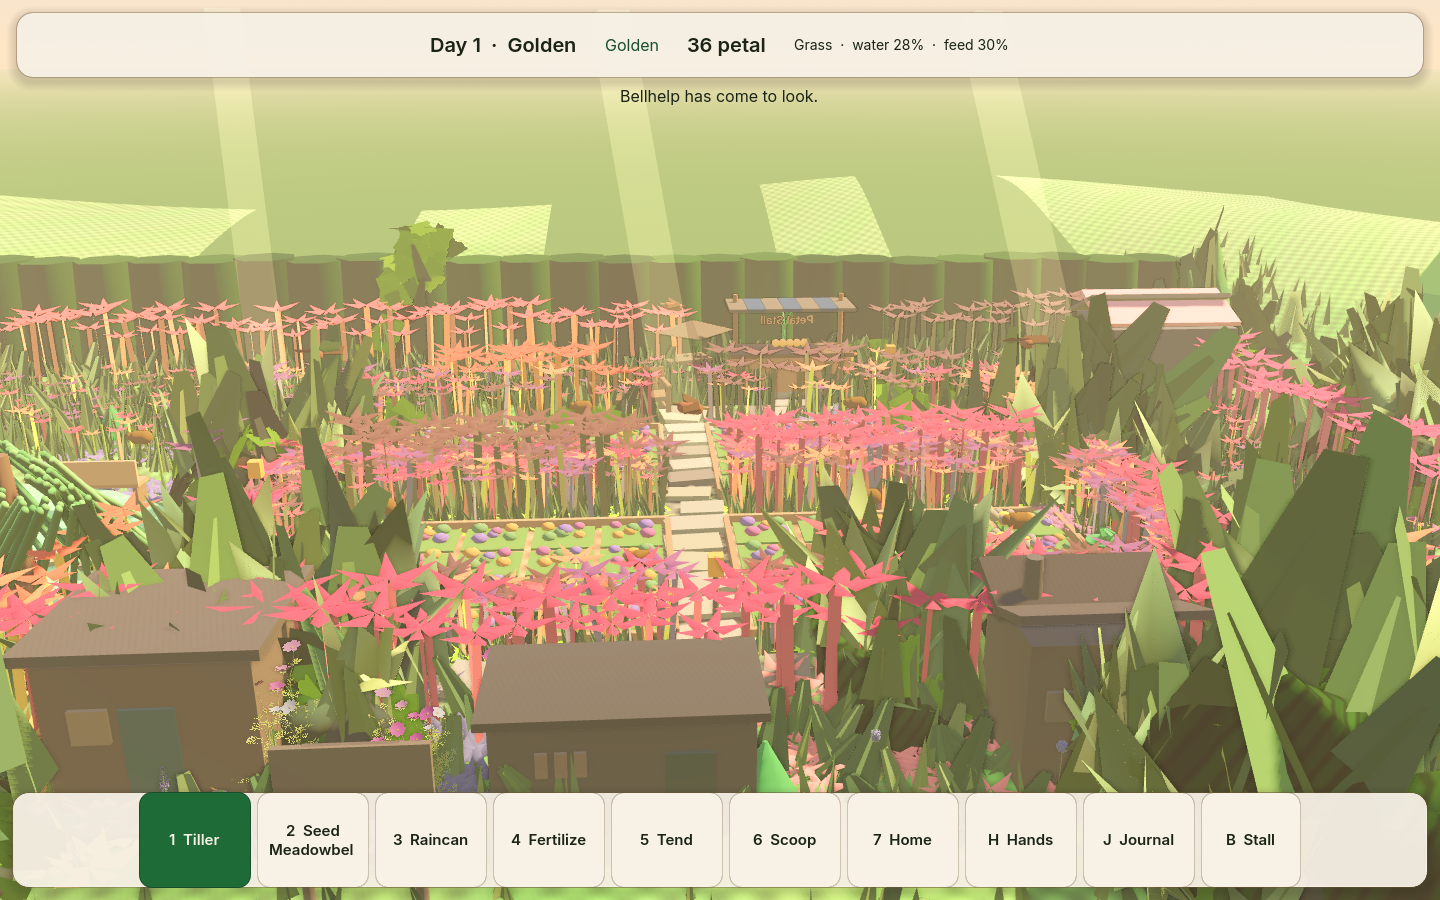
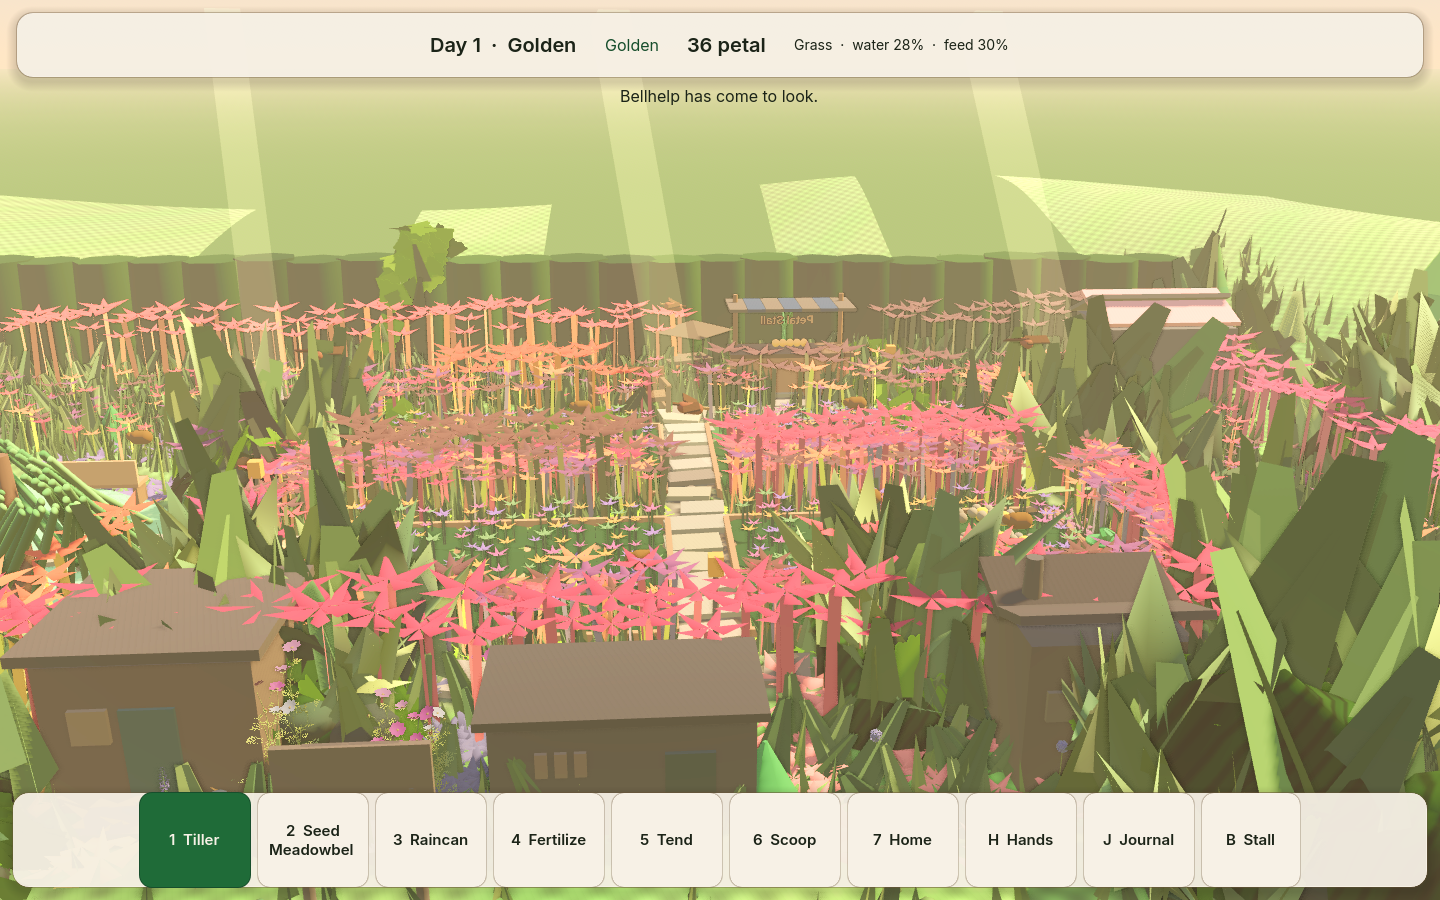
Record the leaf cover on the empty beds.
Nine leaf discs and eight short flowers sit on each untilled cell. The upper band is 1.60% light-green and the hill mean is (212.1, 223.8, 146.5).

diff --git a/docs/PETALWILD_MASTER_STATE.md b/docs/PETALWILD_MASTER_STATE.md
@@ -31,14 +31,14 @@ This machine has no Vulkan surface. Godot falls back to OpenGL 3 / llvmpipe. Aud
 - Large text resizes the garden HUD without leaving the scene.
 - Sim LOD counters. Trust levels named 0–5. Only 0 and 1 can happen, and both stay in the game.
 - Off-screen jellies hide. A resident walks to the nearest placed home kit. A visitor keeps the flower. Back in frame, the body shows again.
-- By day Lumen keeps the stall, Bram walks the plots, and Nessa watches the gate. After dusk they walk home. The directory says which. Ask Bram and he walks the driest tilled bed and waters it. The potting shed is open. Its demand is 1 while he is here. The hedge tea house stands on the south lawn. Its demand is 1 while Nessa is here, and her day round stops at the porch. The research hut stands on the south lawn, west of the tea house. She walks there to file parish notes, nothing leaves the garden, and its demand is 1 once those notes are filed. The media foundry stands between them. After the notes, she can leave a three-episode draft there. Keeping it spends nothing and sends nothing, and foundry demand is 1 once the draft is in the book. The town hall is a board by the south gate. It posts the peach tray and that draft, and its demand is how many are posted. The town beyond the hedge is not simulated. When a creature arrives and Nessa is here, she walks to them and writes the name in the parish book. The journal hides a species name until that creature is sighted. A species that has already visited comes back as a repeat, and the journal says they are back again. Scooping the bank widens the pond, and the new shore sits on the ground. Bulrush wades in once that water and three mature reeds are there. Once Bulrush is a visitor and the beds are wet, Reedic follows. Fertility is the tilled beds, so feeding them counts. Two mature brambles bring Berrypatch, and a third plus those fed beds bring Grapling. A resident Bellhelp brings Cirlark. Dusknip follows a visiting Bellhelp and, once it settles, leaves night-loam, which unwraps the nightlantern seed. A ripe peach and a nightlantern in the evening rain bring Pegapear. Night-loam, two mosspears, and those fed beds bring Gushorn. A planted meadowbell is three bells on a leaf pad, and every crop sits in a ring of eight leaves. An empty untilled bed carries six dark blooms. Tilling or planting that bed clears them.
+- By day Lumen keeps the stall, Bram walks the plots, and Nessa watches the gate. After dusk they walk home. The directory says which. Ask Bram and he walks the driest tilled bed and waters it. The potting shed is open. Its demand is 1 while he is here. The hedge tea house stands on the south lawn. Its demand is 1 while Nessa is here, and her day round stops at the porch. The research hut stands on the south lawn, west of the tea house. She walks there to file parish notes, nothing leaves the garden, and its demand is 1 once those notes are filed. The media foundry stands between them. After the notes, she can leave a three-episode draft there. Keeping it spends nothing and sends nothing, and foundry demand is 1 once the draft is in the book. The town hall is a board by the south gate. It posts the peach tray and that draft, and its demand is how many are posted. The town beyond the hedge is not simulated. When a creature arrives and Nessa is here, she walks to them and writes the name in the parish book. The journal hides a species name until that creature is sighted. A species that has already visited comes back as a repeat, and the journal says they are back again. Scooping the bank widens the pond, and the new shore sits on the ground. Bulrush wades in once that water and three mature reeds are there. Once Bulrush is a visitor and the beds are wet, Reedic follows. Fertility is the tilled beds, so feeding them counts. Two mature brambles bring Berrypatch, and a third plus those fed beds bring Grapling. A resident Bellhelp brings Cirlark. Dusknip follows a visiting Bellhelp and, once it settles, leaves night-loam, which unwraps the nightlantern seed. A ripe peach and a nightlantern in the evening rain bring Pegapear. Night-loam, two mosspears, and those fed beds bring Gushorn. A planted meadowbell is three bells on a leaf pad, and every crop sits in a ring of eight leaves. An empty untilled bed carries nine dark leaf discs and eight short flowers. Tilling or planting that bed clears them.
 
 ## Broken or not built
 
 - The garden does not yet look like the concept plates. See the gap list below.
 - Bellhelp’s five sphere lobes are gone. Five narrow petals run from the tips down to a small pad, with a dark five-petal well, a gold seed, a wider flared whorl, a lower rim, five gap tips past the lobes, a darker band, and a wide short rank inside the tips. The wide skirt of spheres is gone.
 - Lumen’s stalk is one fluted taper, cream at the base and green at the crown. The raised hand holds a seed tray. Each hand is a palm with three fingers and a thumb.
-- Crest leaf cards are 0.4 scale, and the far hedge keeps one 2.5 m tuft in four. A dark shrub row stands just behind that wall, taller at the east end. Light-green in the upper opening band fell from 53% to 24%, and in the lower band from 36% to 13%. The hill did not move. The stall still shows through the middle. The bright blue in that opening was the awning cloth. That stripe is darker now, about (171, 171, 173), and the sky-blue detector on the overview is 0. The shrub row behind the wall was the pale green in the upper band. That check now covers 1.2%, down from 3.5%. The crest leaf cards and the far trees were the side-opening pale pixels. The north backdrop trees are shorter. Paths are dark dirt with darker flagstones. Blooms are rose. StandardMaterial specular is off. The bench and planter are darkened, bright plant-atlas texels are capped, and the lantern glass is amber. The pink disk by the south-west rail, the untilled grass-plot tops, the meadowbell petals, the mauve bed, the resident hands, the light flagstones, the path dirt, and the loose stones are darkened. Overview pixels at pure white are 0. Empty untilled beds carry six dark blooms, and the green lids still show between them. On this shot the upper-band check is 1.54% (1155 pixels) and the hill mean is (212.0, 223.7, 146.5). Eight bees drift over the beds. Four birds cross the garden by day and perch at dusk and in the rain.
+- Crest leaf cards are 0.4 scale, and the far hedge keeps one 2.5 m tuft in four. A dark shrub row stands just behind that wall, taller at the east end. Light-green in the upper opening band fell from 53% to 24%, and in the lower band from 36% to 13%. The hill did not move. The stall still shows through the middle. The bright blue in that opening was the awning cloth. That stripe is darker now, about (171, 171, 173), and the sky-blue detector on the overview is 0. The shrub row behind the wall was the pale green in the upper band. That check now covers 1.2%, down from 3.5%. The crest leaf cards and the far trees were the side-opening pale pixels. The north backdrop trees are shorter. Paths are dark dirt with darker flagstones. Blooms are rose. StandardMaterial specular is off. The bench and planter are darkened, bright plant-atlas texels are capped, and the lantern glass is amber. The pink disk by the south-west rail, the untilled grass-plot tops, the meadowbell petals, the mauve bed, the resident hands, the light flagstones, the path dirt, and the loose stones are darkened. Overview pixels at pure white are 0. Empty untilled beds carry nine dark leaf discs and eight short flowers, and the plots still meet as separate rectangles. On this shot the upper-band check is 1.60% (1197 pixels) and the hill mean is (212.1, 223.8, 146.5). Eight bees drift over the beds. Four birds cross the garden by day and perch at dusk and in the rain.
 - City, venues, and the agent civilisation are a single parish record (`data/district.json`, Hedge Hollow, phase A).
 - On-screen jellies stay at district fidelity or nearer. The directory shows each resident's home and job. The parish page lists venues. Petal Stall, the potting shed, the hedge tea house, the research hut, the media foundry, and the town hall board are open. Grove Park is not built, and demand for it is not simulated. Petal Stall demand is the people present plus creature residents.
 - Trust cannot research, draft, or act outside the process.
@@ -64,14 +64,14 @@ Spent: 0. Remaining on the connected account: **367.46** (pro). Catalog check re
 
 Compared `docs/screenshots/wave1_overview.png`, `wave1_jelly.png`, and `wave1_lumen.png` with `docs/reference/petalwild_target_garden_01.png` and `petalwild_target_garden_02.png`.
 
-The north backdrop trees are shorter than the hedge. Crest leaf cards are 0.4 scale, and the far hedge keeps one 2.5 m tuft in four. A dark shrub row stands just behind that wall, taller at the east end. Light-green pixels fell from 53% to 24% in the upper opening band (screen y 265–320) and from 36% to 13% in the lower band (y 290–360). East-lip luminance (y 252–272) fell from 200 to 162. The hill (y 200–245) did not change. Bellhelp’s close-up is on open lawn: five narrow lobes, a dark five-petal well, a gold seed, a wider flared whorl, a lower rim, five gap tips past the lobes, a darker band, and a wide short rank inside the tips. The bench and planter use a dark multiply, bright plant-atlas texels are capped, and the lantern glass is amber. The pink disk by the south-west rail, the untilled grass-plot tops, the meadowbell petals, the mauve bed, the resident hands, the light flagstones, the path dirt, and the loose stones are darkened. Pure white on this overview is 0. The stall awning’s bright blue was cloth, now about (171, 171, 173), and the sky-blue detector is 0. The shrub row behind the wall no longer reads as pale green; that upper-band check is 1.2%. On the previous shot that check was 1.17% and the hill mean was (212.9, 224.4, 147.6). With the hedge tea house in the lower left, that shot was 1.30%. With the research hut in the lower middle, that shot was 1.17% (874 pixels). With the media foundry in the lower middle, that shot was 1.15% (862 pixels). With the town hall board in the south gate, that shot was 1.29% (968 pixels) and the hill mean was (212.0, 223.6, 146.4). Empty untilled beds now carry six dark blooms, and a tilled or planted bed clears them. On this shot the check is 1.54% (1155 pixels) and the hill mean is (212.0, 223.7, 146.5). The added light-green is the west edge of the hill under the swaying leaves. A planted meadowbell is three bells on a leaf pad, and every crop sits in a ring of eight leaves. Eight bees drift over the beds. Four birds cross the garden by day and perch at dusk and in the rain. Paths are flagstones on dark dirt. Lumen’s stalk is one fluted taper, and the raised hand holds the seed tray. `PETAL_SMOKE_OK`, `PETAL_RULES_OK`, and `PETAL_CAPTURE_OK` passed on this tree. Shots are the six `wave1_*.png` files.
+The north backdrop trees are shorter than the hedge. Crest leaf cards are 0.4 scale, and the far hedge keeps one 2.5 m tuft in four. A dark shrub row stands just behind that wall, taller at the east end. Light-green pixels fell from 53% to 24% in the upper opening band (screen y 265–320) and from 36% to 13% in the lower band (y 290–360). East-lip luminance (y 252–272) fell from 200 to 162. The hill (y 200–245) did not change. Bellhelp’s close-up is on open lawn: five narrow lobes, a dark five-petal well, a gold seed, a wider flared whorl, a lower rim, five gap tips past the lobes, a darker band, and a wide short rank inside the tips. The bench and planter use a dark multiply, bright plant-atlas texels are capped, and the lantern glass is amber. The pink disk by the south-west rail, the untilled grass-plot tops, the meadowbell petals, the mauve bed, the resident hands, the light flagstones, the path dirt, and the loose stones are darkened. Pure white on this overview is 0. The stall awning’s bright blue was cloth, now about (171, 171, 173), and the sky-blue detector is 0. The shrub row behind the wall no longer reads as pale green; that upper-band check is 1.2%. On the previous shot that check was 1.17% and the hill mean was (212.9, 224.4, 147.6). With the hedge tea house in the lower left, that shot was 1.30%. With the research hut in the lower middle, that shot was 1.17% (874 pixels). With the media foundry in the lower middle, that shot was 1.15% (862 pixels). With the town hall board in the south gate, that shot was 1.29% (968 pixels) and the hill mean was (212.0, 223.6, 146.4). On that shot the check was 1.54% (1155 pixels) and the hill mean was (212.0, 223.7, 146.5). Empty untilled beds now carry nine dark leaf discs and eight short flowers, and a tilled or planted bed clears them. On this shot the check is 1.60% (1197 pixels) and the hill mean is (212.1, 223.8, 146.5). The added light-green is the west edge of the hill under the swaying leaves. A planted meadowbell is three bells on a leaf pad, and every crop sits in a ring of eight leaves. Eight bees drift over the beds. Four birds cross the garden by day and perch at dusk and in the rain. Paths are flagstones on dark dirt. Lumen’s stalk is one fluted taper, and the raised hand holds the seed tray. `PETAL_SMOKE_OK`, `PETAL_RULES_OK`, and `PETAL_CAPTURE_OK` passed on this tree. Shots are the six `wave1_*.png` files.
 
 Three largest gaps still open, against `docs/reference/petalwild_target_garden_01.png` and `petalwild_target_garden_02.png`:
 
-1. **Hedge skyline.** The crest cards and the far trees are darker. On this shot 1.54% of the upper band is still light-green (1155 pixels), mostly the west edge of the hill. The hill mean is (212.0, 223.7, 146.5). The stall still shows through the middle. The south rooms, the gate board, and the bed blooms sit lower and do not cover that edge. PETAL-05.
+1. **Hedge skyline.** The crest cards and the far trees are darker. On this shot 1.60% of the upper band is still light-green (1197 pixels), mostly the west edge of the hill. The hill mean is (212.1, 223.8, 146.5). The stall still shows through the middle. The south rooms, the gate board, and the bed blooms sit lower and do not cover that edge. PETAL-05.
 2. **Bellhelp.** Ten tips, a short rank inside them, a darker band, and a wider skirt. The dark throat is still the center. PETAL-03.
-3. **Plot grid.** Each empty untilled cell has six dark blooms, and the rectangular green lid still shows between them. A tilled or planted cell clears the blooms. The plates are dense rows. Overview pixels at pure white are 0, and the brightest leftover is still the warm horizon at screen x 1034, y 178, (255, 255, 201). That is sky. PETAL-06.
+3. **Plot grid.** Leaf discs and short flowers cover each empty untilled cell, and a tilled or planted cell clears them. The plots still meet as separate rectangles. The plates are one continuous planting. Overview pixels at pure white are 0, and the brightest leftover is still the warm horizon at screen x 1034, y 178, (255, 255, 201). That is sky. PETAL-06.
 
 ## Next integration
 
-Keep this build playable. The next pass stays inside `scenes/main.tscn` (Hedge Hollow). The creature chain through Gushorn can happen in this garden. Grove Park is still not built. The hedge tea house stands on the south lawn. The research hut stands west of it, and the media foundry stands between them. The town hall is a board by the south gate. Meadowbells are a clump of three, and every crop sits in a ring of leaves. Empty untilled beds carry six dark blooms, and the rectangular lids still show between them. On this shot 1.54% of the upper band is still light green (1155 pixels), mostly the west edge of the hill, and the stall still shows through the middle. The hill mean is (212.0, 223.7, 146.5). The south rooms and the town hall board sit in the foreground. Bees sit on the flowers while it rains. Do not paint that hill edge, do not cut the hill, and do not raise the east shrubs. Do not fill Bellhelp’s dark throat. Do not open a side demo. The Kenney/Cara grove in `scripts/presentation/` is not the running scene.
+Keep this build playable. The next pass stays inside `scenes/main.tscn` (Hedge Hollow). The creature chain through Gushorn can happen in this garden. Grove Park is still not built. The hedge tea house stands on the south lawn. The research hut stands west of it, and the media foundry stands between them. The town hall is a board by the south gate. Meadowbells are a clump of three, and every crop sits in a ring of leaves. Empty untilled beds carry nine dark leaf discs and eight short flowers, and the plots still meet as separate rectangles. On this shot 1.60% of the upper band is still light green (1197 pixels), mostly the west edge of the hill, and the stall still shows through the middle. The hill mean is (212.1, 223.8, 146.5). The south rooms and the town hall board sit in the foreground. Bees sit on the flowers while it rains. Do not paint that hill edge, do not cut the hill, and do not raise the east shrubs. Do not fill Bellhelp’s dark throat. Do not open a side demo. The Kenney/Cara grove in `scripts/presentation/` is not the running scene.

diff --git a/docs/VISUAL_GAP.md b/docs/VISUAL_GAP.md
@@ -2,12 +2,12 @@
 
 Compared on 2026-09-22. The scene `tools/run.sh` launches is Hedge Hollow. Shots: `docs/screenshots/wave1_overview.png`, `wave1_jelly.png`, `wave1_lumen.png`. Targets: `docs/reference/petalwild_target_garden_01.png` and `petalwild_target_garden_02.png`.
 
-The north backdrop trees are shorter than the hedge. Crest leaf cards are 0.4 of their old size, and the far wall keeps one 2.5 m tuft in four. A row of dark shrubs stands just behind that wall. The east end is taller so its lip meets the hedge line. Light-green pixels in the upper opening band (screen y 265–320, x 40–1400) fell from 53% to 24%, and in the lower band (y 290–360, x 80–1200) from 36% to 13%. On the east lip (y 252–272, x 40–300) mean luminance fell from 200 to 162. The hill (y 200–245) did not change. The stall still sits in front of the middle of the wall. The bright blue band in that opening was the awning cloth, not a hole in the hedge. That stripe is darker now and reads about (171, 171, 173). A sky-blue detector on the overview (blue above 200, ahead of red by 20 and of green by 10) is 0. The shrub row behind the wall was lifting to pale green under the sun. The same light-green check (green ahead of red by 15 and of blue by 20, green above 140) now covers 1.2% of the upper band, down from 3.5% on the previous shot. The crest leaf cards and the far trees were the pale pixels in the side openings. The upper hill (screen y 200–230) stayed at about (213, 224, 148). The ground sky below the horizon is green, so a hole in the hill reads as olive rather than pale sky. Bellhelp’s close-up shows five pointed lobes, five gap tips past them, a wide short rank inside that ring, a darker band, and a wider flared whorl. The dark throat stays. The wide skirt of spheres is gone. The bench and planter use a dark multiply on the prop texture, and bright plant-atlas texels are capped. The three lantern glasses are amber instead of pure white. The pink disk by the south-west rail, the untilled grass-plot tops, the meadowbell petals, the mauve bed, the resident hands, the light flagstones, the path dirt, and the loose stones are darkened so they stay under the sun. Eight bees drift over the beds. Four birds cross the garden by day and perch at dusk and in the rain. A planted meadowbell is three bells on a leaf pad, and every crop sits in a ring of eight leaves. Pure white on this overview is 0. On the previous shot the upper-band light-green check was 1.17% and the hill mean was (212.9, 224.4, 147.6). The hedge tea house stands in the lower left of the home shot. On that shot the same check was 1.30% (969 pixels) and the hill mean was (212.0, 223.6, 146.4). The research hut stands in the lower middle of that shot, where the check was 1.17% (874 pixels) and the hill mean was (212.0, 223.6, 146.4). The media foundry stands in the lower middle of that shot, where the check was 1.15% (862 pixels) and the hill mean was (212.0, 223.6, 146.4). The town hall board now stands in the south gate. On that shot the check was 1.29% (968 pixels) and the hill mean was (212.0, 223.6, 146.4). Empty untilled beds now carry six dark blooms, and a tilled or planted bed clears them. On this shot the check is 1.54% (1155 pixels) and the hill mean is (212.0, 223.7, 146.5). The added light-green sits on the west edge of the hill under the swaying leaves.
+The north backdrop trees are shorter than the hedge. Crest leaf cards are 0.4 of their old size, and the far wall keeps one 2.5 m tuft in four. A row of dark shrubs stands just behind that wall. The east end is taller so its lip meets the hedge line. Light-green pixels in the upper opening band (screen y 265–320, x 40–1400) fell from 53% to 24%, and in the lower band (y 290–360, x 80–1200) from 36% to 13%. On the east lip (y 252–272, x 40–300) mean luminance fell from 200 to 162. The hill (y 200–245) did not change. The stall still sits in front of the middle of the wall. The bright blue band in that opening was the awning cloth, not a hole in the hedge. That stripe is darker now and reads about (171, 171, 173). A sky-blue detector on the overview (blue above 200, ahead of red by 20 and of green by 10) is 0. The shrub row behind the wall was lifting to pale green under the sun. The same light-green check (green ahead of red by 15 and of blue by 20, green above 140) now covers 1.2% of the upper band, down from 3.5% on the previous shot. The crest leaf cards and the far trees were the pale pixels in the side openings. The upper hill (screen y 200–230) stayed at about (213, 224, 148). The ground sky below the horizon is green, so a hole in the hill reads as olive rather than pale sky. Bellhelp’s close-up shows five pointed lobes, five gap tips past them, a wide short rank inside that ring, a darker band, and a wider flared whorl. The dark throat stays. The wide skirt of spheres is gone. The bench and planter use a dark multiply on the prop texture, and bright plant-atlas texels are capped. The three lantern glasses are amber instead of pure white. The pink disk by the south-west rail, the untilled grass-plot tops, the meadowbell petals, the mauve bed, the resident hands, the light flagstones, the path dirt, and the loose stones are darkened so they stay under the sun. Eight bees drift over the beds. Four birds cross the garden by day and perch at dusk and in the rain. A planted meadowbell is three bells on a leaf pad, and every crop sits in a ring of eight leaves. Pure white on this overview is 0. On the previous shot the upper-band light-green check was 1.17% and the hill mean was (212.9, 224.4, 147.6). The hedge tea house stands in the lower left of the home shot. On that shot the same check was 1.30% (969 pixels) and the hill mean was (212.0, 223.6, 146.4). The research hut stands in the lower middle of that shot, where the check was 1.17% (874 pixels) and the hill mean was (212.0, 223.6, 146.4). The media foundry stands in the lower middle of that shot, where the check was 1.15% (862 pixels) and the hill mean was (212.0, 223.6, 146.4). The town hall board now stands in the south gate. On the town-hall shot the check was 1.29% (968 pixels) and the hill mean was (212.0, 223.6, 146.4). On the six-bloom shot the check was 1.54% (1155 pixels) and the hill mean was (212.0, 223.7, 146.5). Empty untilled beds now carry nine dark leaf discs and eight short flowers, and a tilled or planted bed clears them. On this shot the check is 1.60% (1197 pixels) and the hill mean is (212.1, 223.8, 146.5). The added light-green sits on the west edge of the hill under the swaying leaves.
 
 ## Three largest gaps
 
-1. **Hedge skyline.** The crest cards and the far trees are darker. On this shot 1.54% of the upper band is still light-green (1155 pixels), mostly the west edge of the hill. The hill mean is (212.0, 223.7, 146.5). The stall still shows through the middle. The south rooms, the gate board, and the bed blooms sit lower and do not cover that edge. PETAL-05.
+1. **Hedge skyline.** The crest cards and the far trees are darker. On this shot 1.60% of the upper band is still light-green (1197 pixels), mostly the west edge of the hill. The hill mean is (212.1, 223.8, 146.5). The stall still shows through the middle. The south rooms, the gate board, and the bed blooms sit lower and do not cover that edge. PETAL-05.
 
 2. **Bellhelp.** Ten tips, a short rank inside them, a darker band, and a wider skirt. The dark throat is still the center. PETAL-03.
 
-3. **Plot grid.** Each empty untilled cell has six dark blooms, and the rectangular green lid still shows between them. A tilled or planted cell clears the blooms. The plates are dense rows. Overview pixels at pure white are 0, and the brightest leftover is still the warm horizon at screen x 1034, y 178, (255, 255, 201). That is sky. PETAL-06.
+3. **Plot grid.** Leaf discs and short flowers cover each empty untilled cell, and a tilled or planted cell clears them. The plots still meet as separate rectangles. The plates are one continuous planting. Overview pixels at pure white are 0, and the brightest leftover is still the warm horizon at screen x 1034, y 178, (255, 255, 201). That is sky. PETAL-06.
